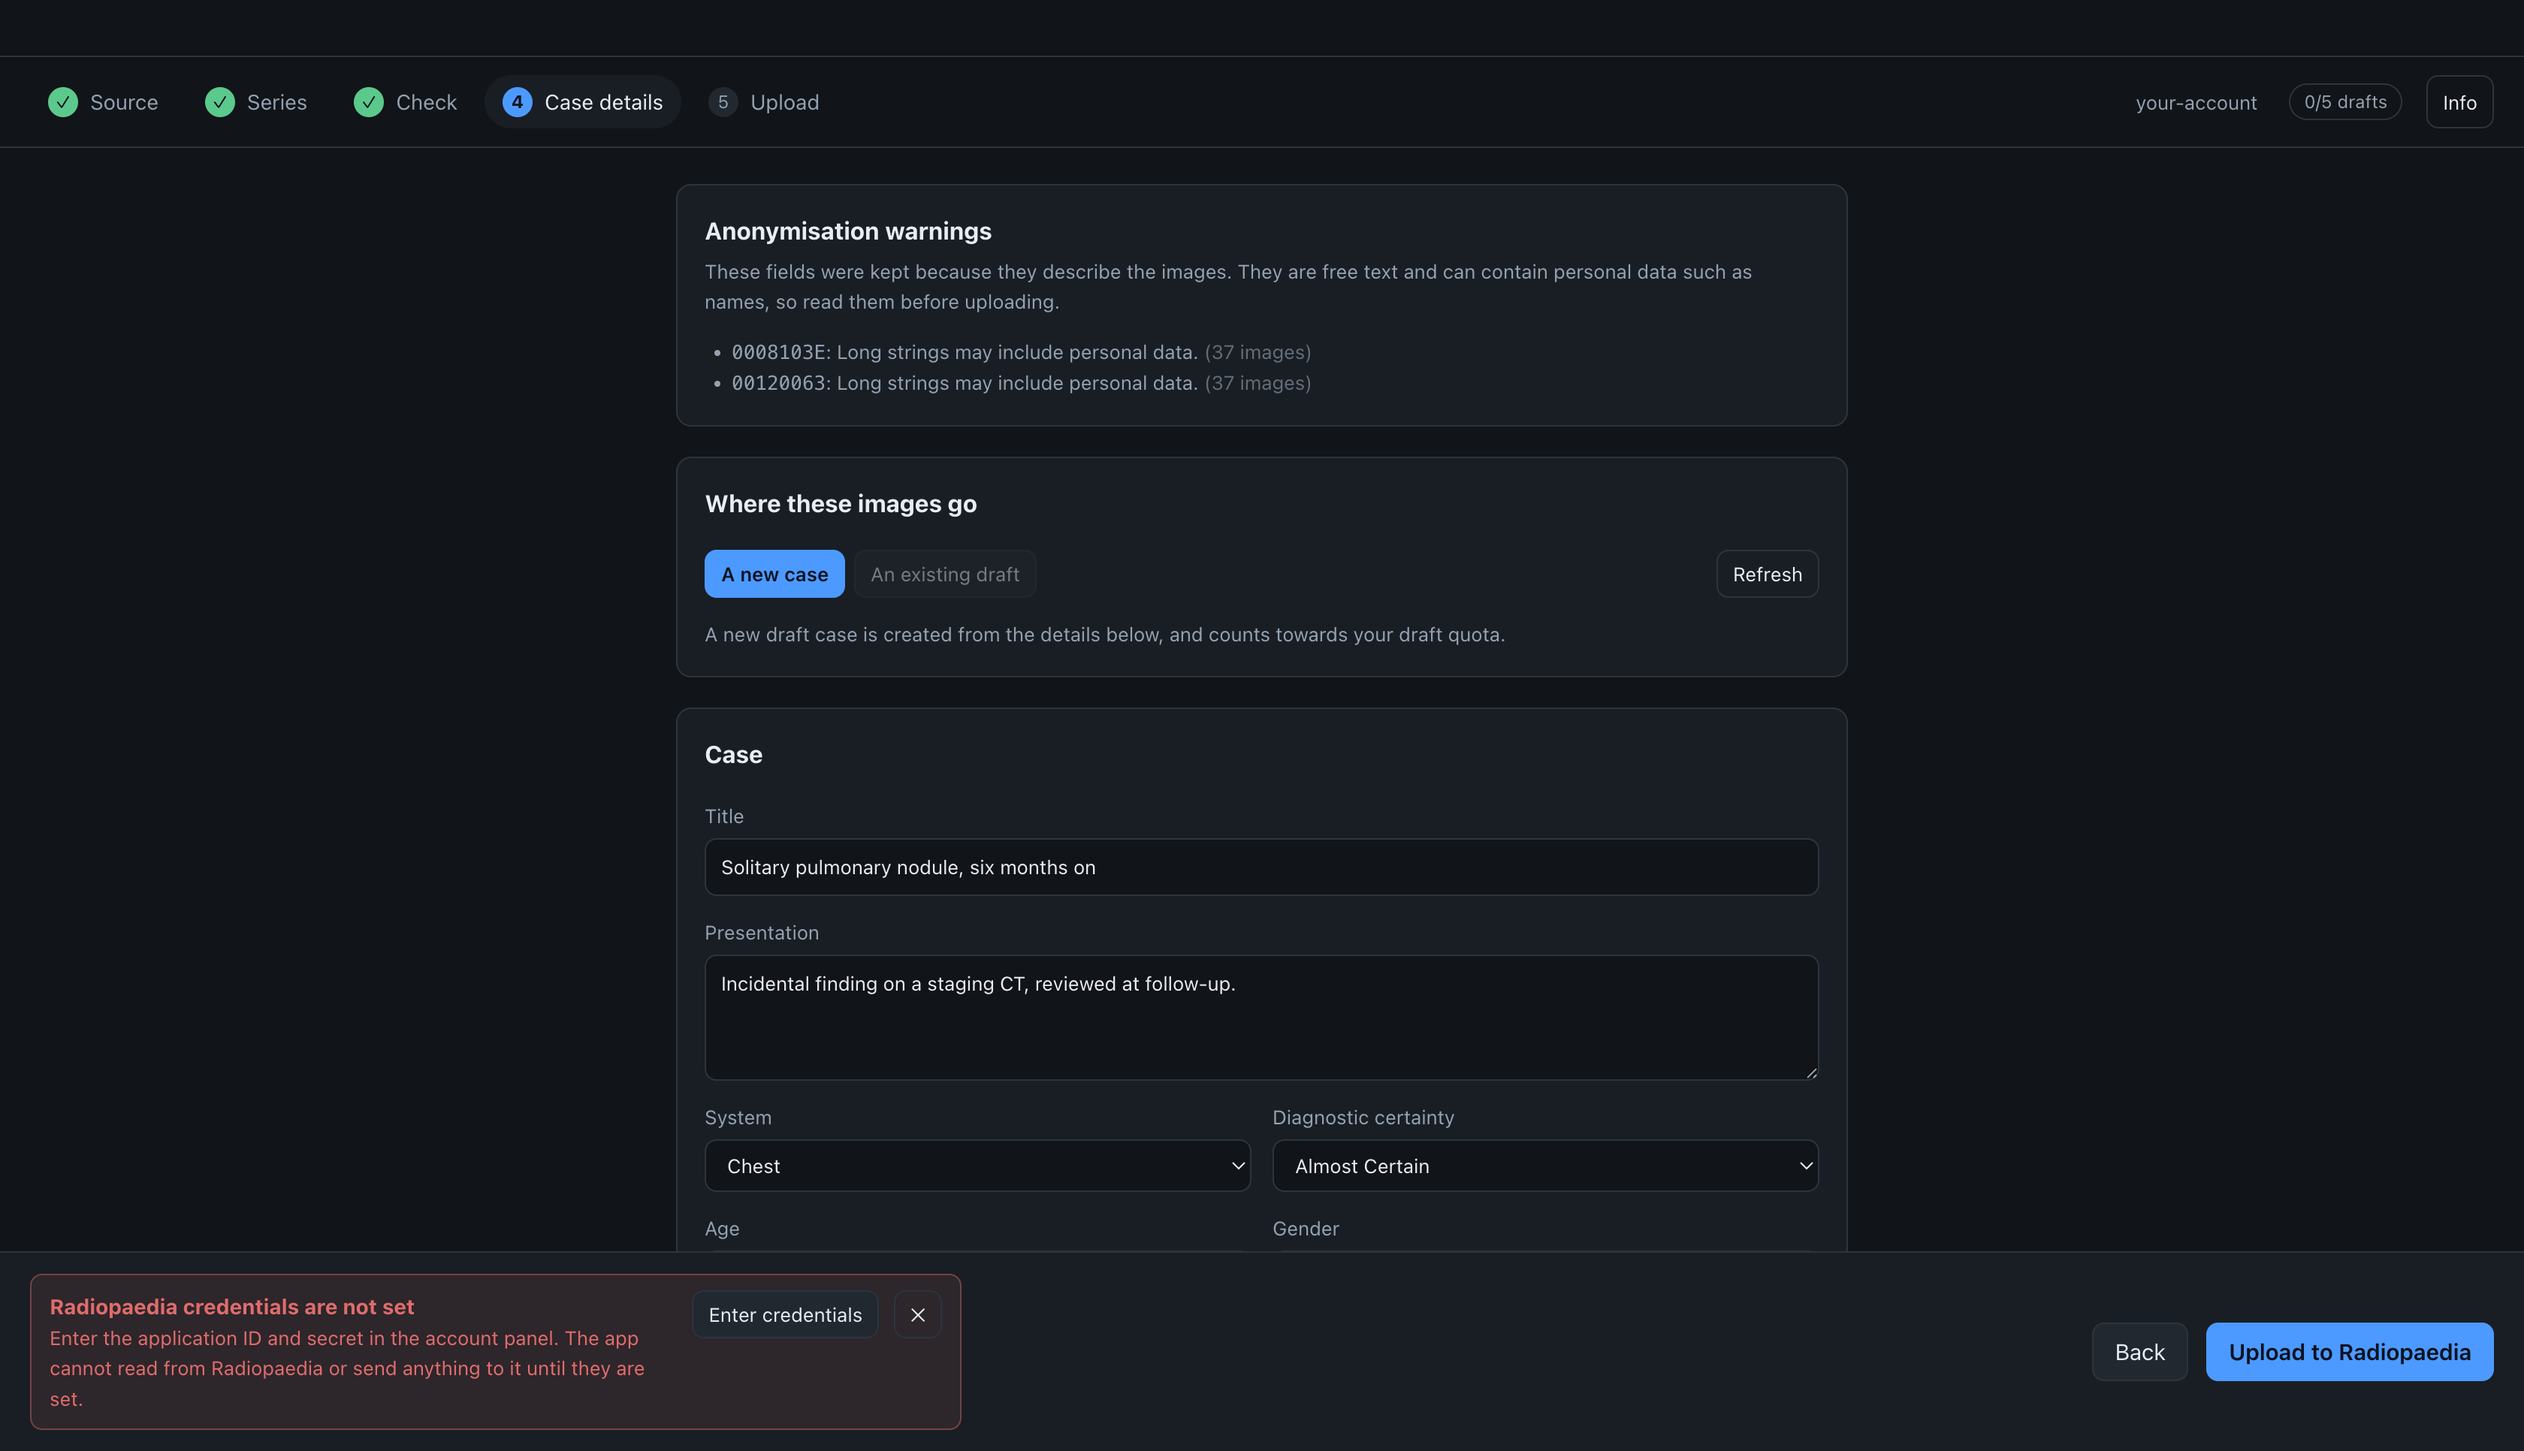
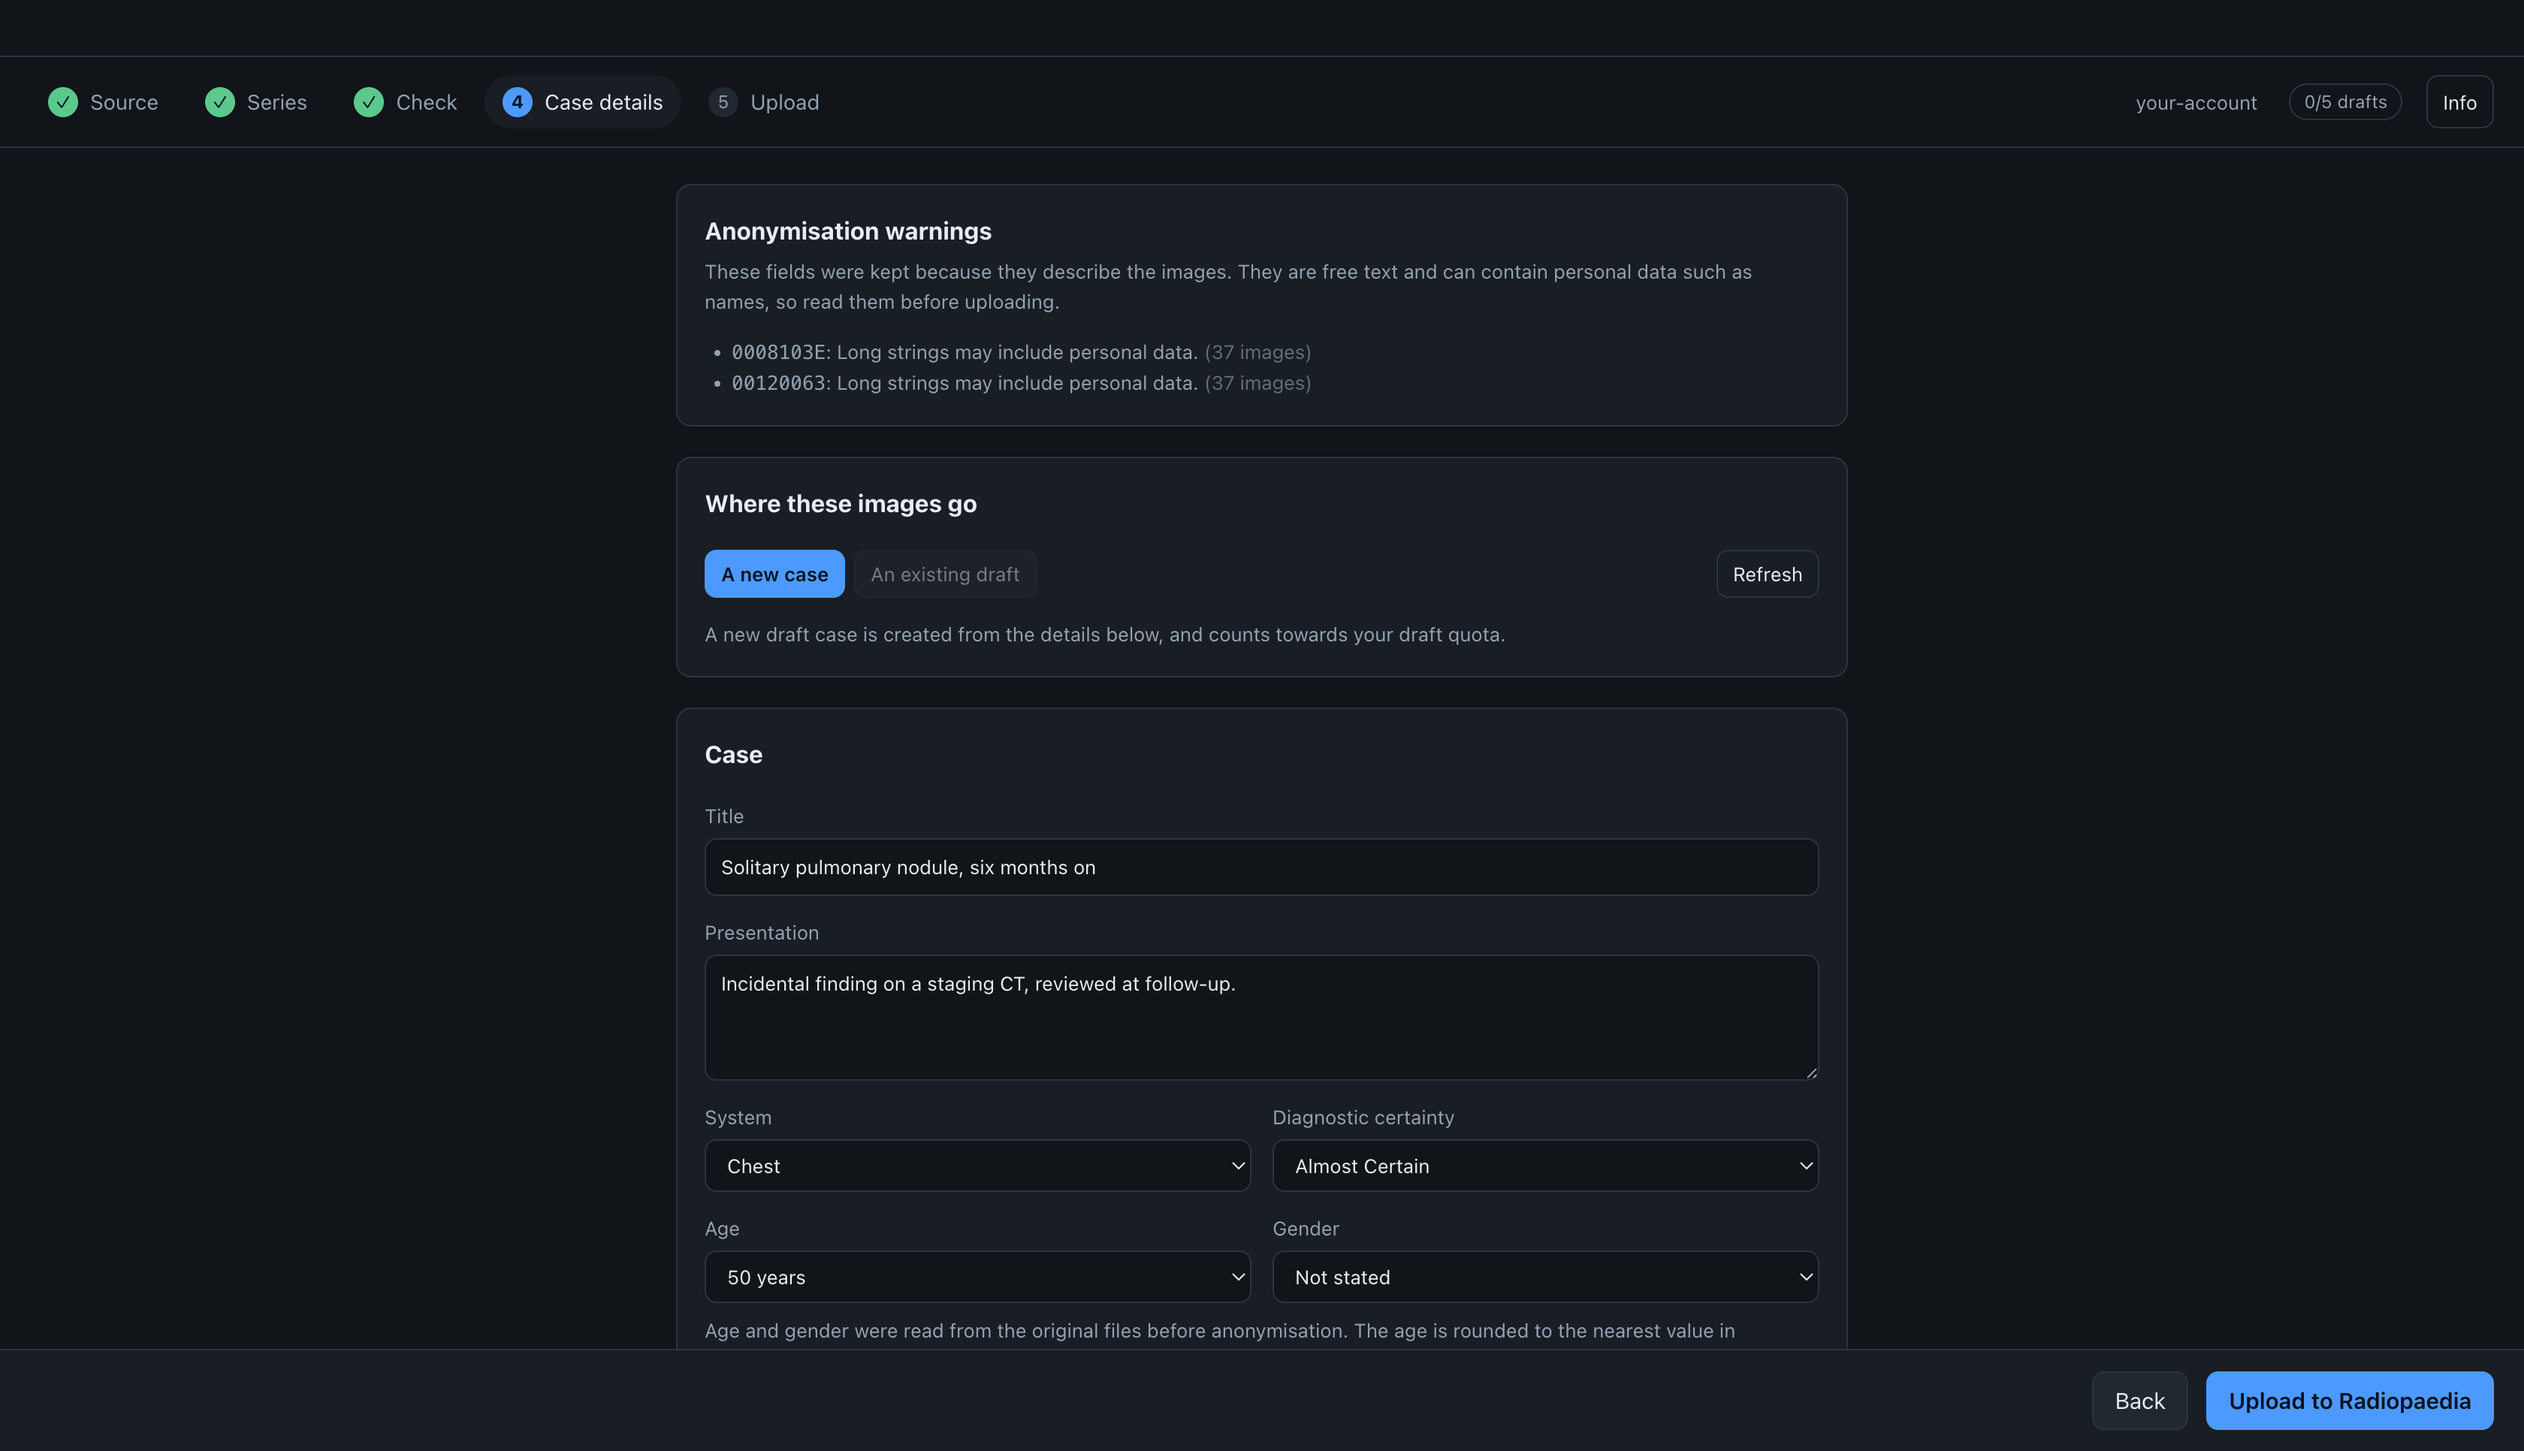
Show the case step without a credentials error in its screenshot
The screenshot driver stubbed sign-in but not the list of drafts, so the
case step asked the real account on the machine taking the pictures. With
no credentials configured the footer carried their error in every build of
the docs; with credentials it would have listed that person's drafts. The
list is now stubbed as an account with none.

Changed region(s): [[0.0, 0.8696, 0.6875, 0.9627], [0.8438, 0.9006, 1.0, 0.9938]]

diff --git a/docs/develop/screenshots.md b/docs/develop/screenshots.md
@@ -34,8 +34,9 @@ seeded generator, so regenerating the study produces identical files.
 
 ## How the app is driven
 
-`scripts/shots.mjs` replaces four things at the IPC layer: sign-in (`auth:status` and
-`api:currentUser`), the folder picker, the upload and the update check. The app itself has no
+`scripts/shots.mjs` replaces five things at the IPC layer: sign-in (`auth:status` and
+`api:currentUser`), the list of draft cases (`api:draftCases`), the folder picker, the upload
+and the update check. The app itself has no
 test code. The update check is replaced because its result depends on GitHub, not on the
 build: without the stub, a new release would change the screenshots the next day. Everything
 else is the real app: import, preview decoding and anonymisation.
